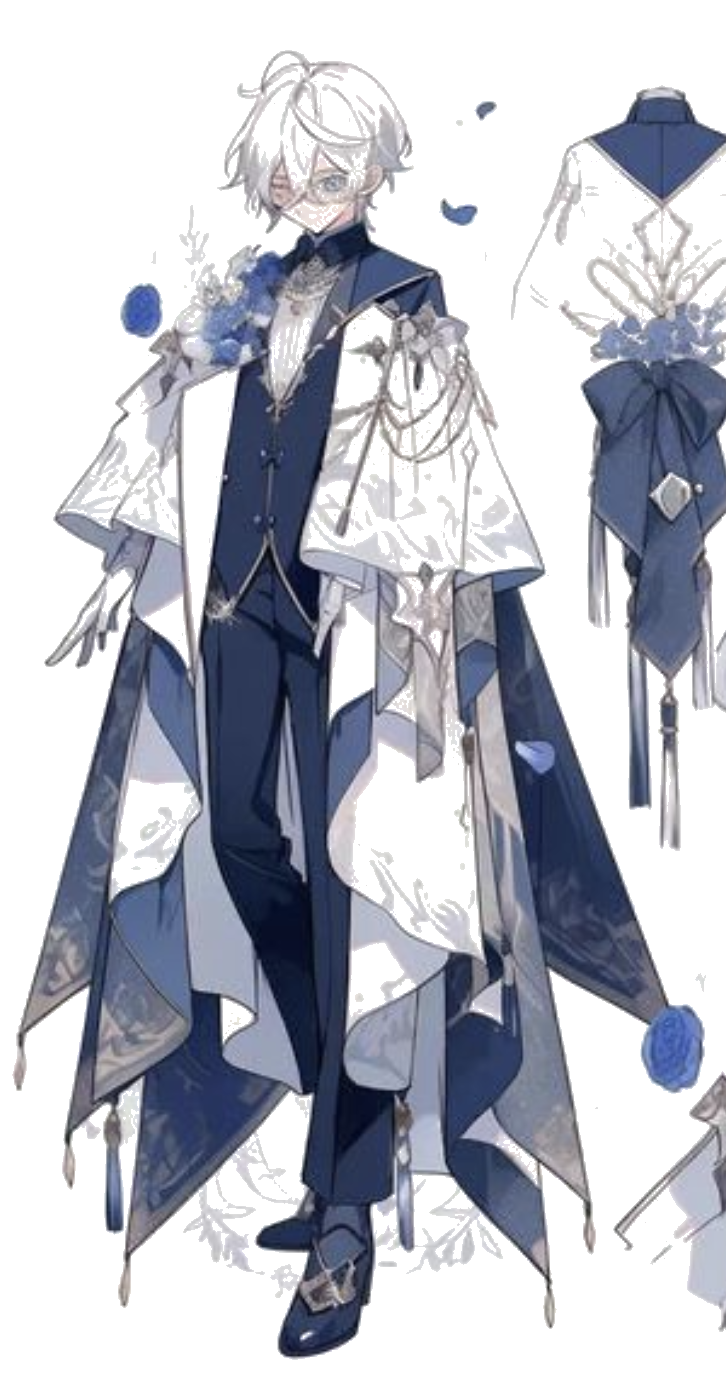
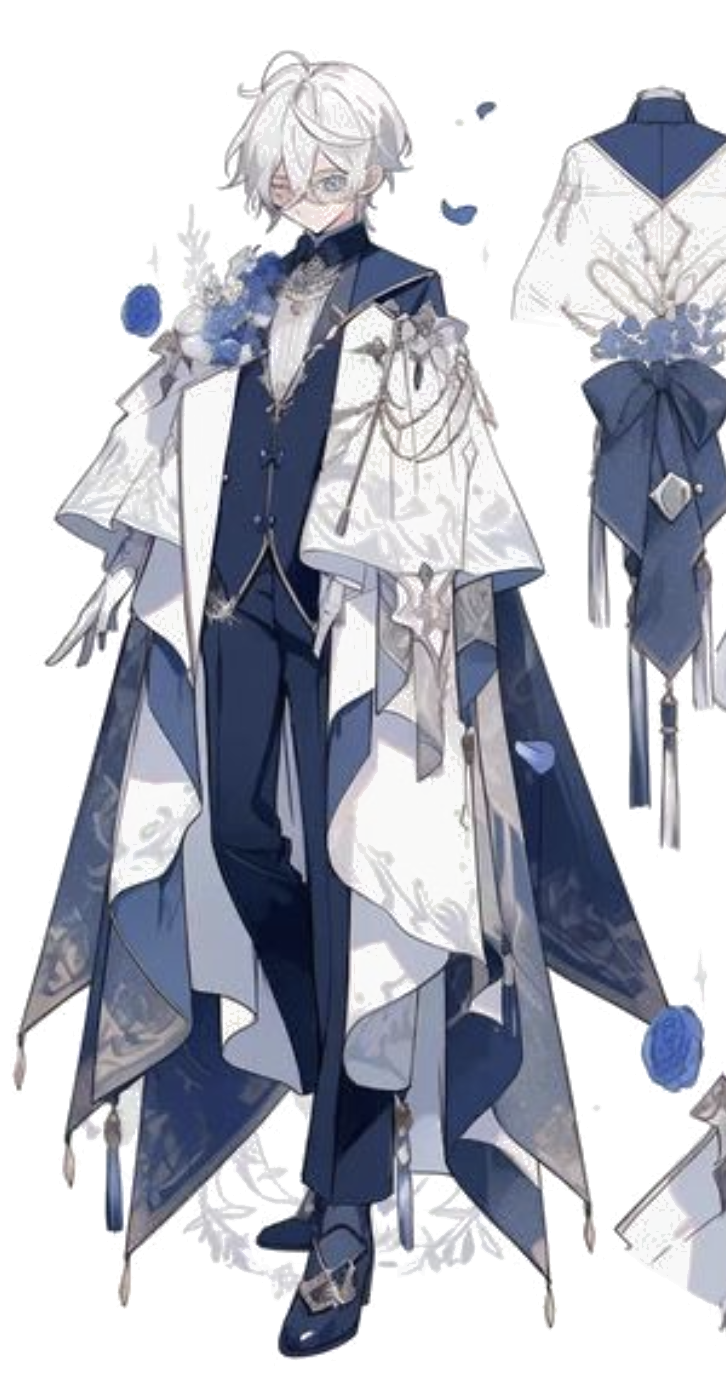
Improve character visuals and streamline character selection screen
Refactors character image filters in CSS and background removal logic in `remove_backgrounds.py`, and removes rarity/element display in `CharacterSelect.tsx`.

Replit-Commit-Author: Agent
Replit-Commit-Session-Id: 0c918321-97ba-48c8-9c63-5f66a4189b38
Replit-Commit-Checkpoint-Type: full_checkpoint
Replit-Commit-Screenshot-Url: https://storage.googleapis.com/screenshot-production-us-central1/788b90a9-72da-477b-a858-5628bbb0de02/0c918321-97ba-48c8-9c63-5f66a4189b38/nWV6anC

diff --git a/client/src/index.css b/client/src/index.css
@@ -42,12 +42,12 @@ canvas {
 
 /* Character image display with transparent backgrounds */
 .character-image {
-  /* Enhanced character display with proper transparency support */
+  /* Enhanced character display preserving skin tones */
   filter: 
-    contrast(1.2) 
-    brightness(1.1) 
-    saturate(1.2)
-    drop-shadow(0 0 12px rgba(255,255,255,0.5));
+    contrast(1.1) 
+    brightness(1.05) 
+    saturate(1.1)
+    drop-shadow(0 0 10px rgba(255,255,255,0.4));
   
   /* Ensure transparent background is respected */
   background: transparent;
@@ -59,13 +59,13 @@ canvas {
 
 /* Enhanced character display for selection screen */
 .character-select-image {
-  /* Optimized filters for transparent character images */
+  /* Optimized filters preserving natural skin tones */
   filter: 
-    contrast(1.3) 
-    brightness(1.2) 
-    saturate(1.3)
-    drop-shadow(0 0 18px rgba(255,255,255,0.7))
-    drop-shadow(0 0 35px rgba(255,255,255,0.3));
+    contrast(1.15) 
+    brightness(1.08) 
+    saturate(1.15)
+    drop-shadow(0 0 15px rgba(255,255,255,0.6))
+    drop-shadow(0 0 30px rgba(255,255,255,0.2));
   
   background: transparent;
   
@@ -75,11 +75,11 @@ canvas {
 
 .character-select-image:hover {
   filter: 
-    contrast(1.4) 
-    brightness(1.3) 
-    saturate(1.4)
-    drop-shadow(0 0 22px rgba(255,255,255,0.9))
-    drop-shadow(0 0 45px rgba(255,255,255,0.5));
+    contrast(1.2) 
+    brightness(1.1) 
+    saturate(1.2)
+    drop-shadow(0 0 18px rgba(255,255,255,0.8))
+    drop-shadow(0 0 35px rgba(255,255,255,0.4));
   
-  transform: scale(1.05);
+  transform: scale(1.02);
 }

diff --git a/client/src/components/CharacterSelect.tsx b/client/src/components/CharacterSelect.tsx
@@ -241,15 +241,7 @@ export default function CharacterSelect() {
             {currentCharacter.name}
           </h1>
           
-          <div className="flex items-center justify-center gap-4 mb-6">
-            <span className={`text-2xl font-bold ${getRarityColor(currentCharacter.stats.rarity)}`}>
-              {currentCharacter.stats.rarity}
-            </span>
-            <span className="text-xl opacity-60">•</span>
-            <span className="text-xl">{currentCharacter.stats.element}</span>
-            <span className="text-xl opacity-60">•</span>
-            <span className="text-xl">{currentCharacter.stats.difficulty}</span>
-          </div>
+
         </div>
       </div>
 

diff --git a/remove_backgrounds.py b/remove_backgrounds.py
@@ -40,35 +40,54 @@ def remove_background_simple(input_path, output_path):
         print(f"✗ Error processing {input_path}: {e}")
         return False
 
-def remove_background_edges(input_path, output_path):
-    """Remove background by making edge colors transparent"""
+def remove_background_advanced(input_path, output_path):
+    """Advanced background removal preserving character details"""
     try:
         # Open image
         img = Image.open(input_path)
         img = img.convert("RGBA")
         
-        # Get the colors at the corners (likely background)
-        width, height = img.size
-        corners = [
-            img.getpixel((0, 0)),
-            img.getpixel((width-1, 0)),
-            img.getpixel((0, height-1)),
-            img.getpixel((width-1, height-1))
-        ]
-        
-        # Find most common corner color (background)
-        bg_color = max(set(corners), key=corners.count)
-        
-        # Create mask for background removal
+        # Get image data as array for easier processing
         data = img.getdata()
         new_data = []
         
-        for item in data:
-            # Check if pixel is similar to background color
-            if abs(item[0] - bg_color[0]) < 30 and abs(item[1] - bg_color[1]) < 30 and abs(item[2] - bg_color[2]) < 30:
-                new_data.append((item[0], item[1], item[2], 0))  # Make transparent
+        # Sample multiple edge points for better background detection
+        width, height = img.size
+        edge_samples = []
+        for i in range(0, width, max(1, width//10)):
+            edge_samples.append(img.getpixel((i, 0)))  # Top edge
+            edge_samples.append(img.getpixel((i, height-1)))  # Bottom edge
+        for i in range(0, height, max(1, height//10)):
+            edge_samples.append(img.getpixel((0, i)))  # Left edge
+            edge_samples.append(img.getpixel((width-1, i)))  # Right edge
+        
+        # Find most common background colors
+        bg_colors = {}
+        for color in edge_samples:
+            rgb = color[:3]
+            if rgb in bg_colors:
+                bg_colors[rgb] += 1
             else:
-                new_data.append(item)  # Keep original
+                bg_colors[rgb] = 1
+        
+        # Get dominant background color
+        bg_color = max(bg_colors, key=bg_colors.get)
+        
+        for item in data:
+            r, g, b = item[:3]
+            
+            # More precise background detection
+            color_diff = abs(r - bg_color[0]) + abs(g - bg_color[1]) + abs(b - bg_color[2])
+            
+            # Very similar to background color - make transparent
+            if color_diff < 25:
+                new_data.append((r, g, b, 0))
+            # Somewhat similar - make semi-transparent
+            elif color_diff < 60:
+                new_data.append((r, g, b, 100))
+            # Keep original with full opacity
+            else:
+                new_data.append((r, g, b, 255))
         
         # Update image data
         img.putdata(new_data)
@@ -76,7 +95,7 @@ def remove_background_edges(input_path, output_path):
         # Save as PNG with transparency
         img.save(output_path, "PNG")
         
-        print(f"✓ Processed (edge method): {input_path} -> {output_path}")
+        print(f"✓ Processed (advanced method): {input_path} -> {output_path}")
         return True
     except Exception as e:
         print(f"✗ Error processing {input_path}: {e}")
@@ -107,8 +126,8 @@ def main():
         output_path = os.path.join(output_dir, target_file)
         
         if os.path.exists(input_path):
-            # Try edge detection method first
-            if remove_background_edges(input_path, output_path):
+            # Try advanced method first
+            if remove_background_advanced(input_path, output_path):
                 success_count += 1
             # If that fails, try simple color method
             elif remove_background_simple(input_path, output_path):
